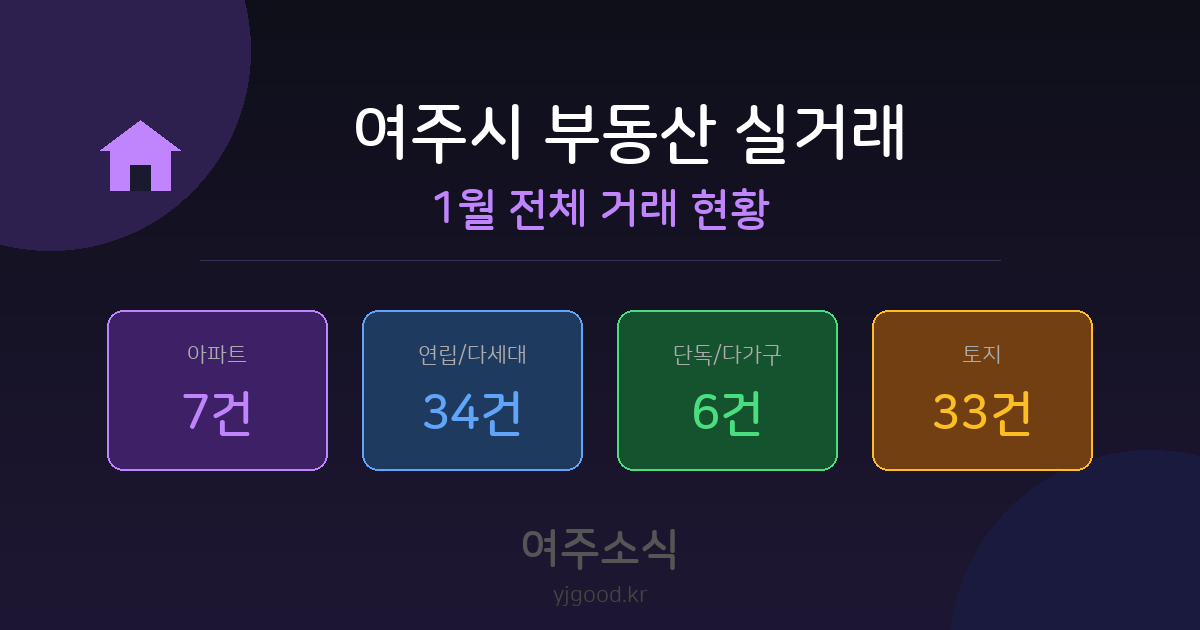
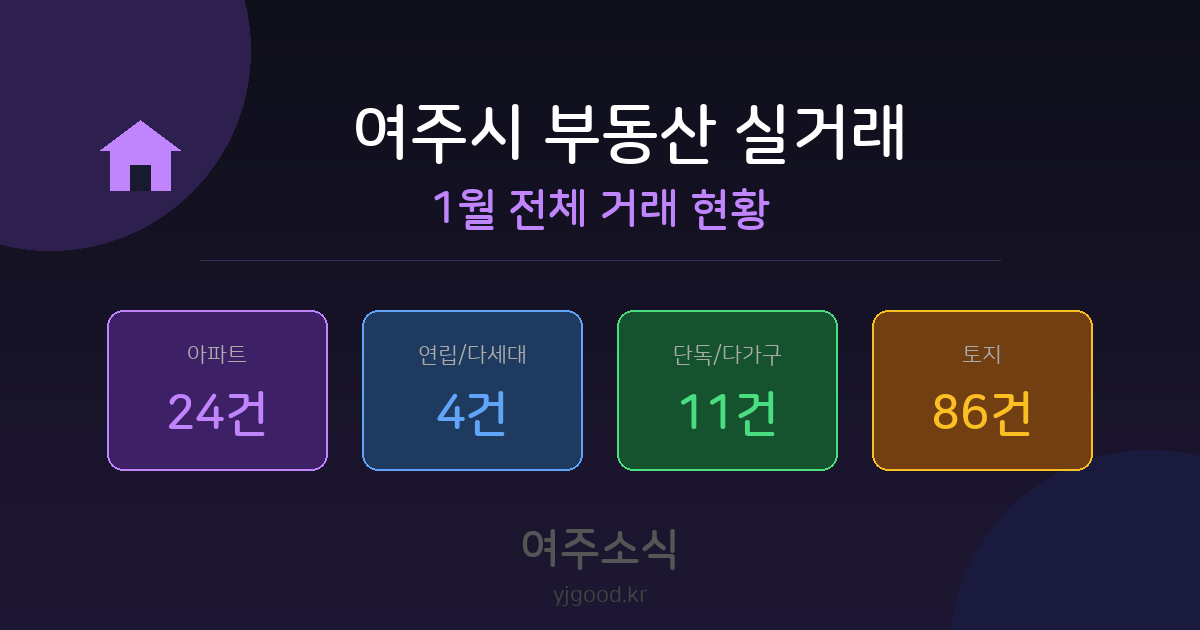
Update real estate data - 2026-01-19

diff --git a/index.html b/index.html
@@ -252,7 +252,7 @@
     </div>
 
     <script>
-        const DATA = {"period": "2026년 1월 셋째주", "updateTime": "2026-01-12 02:24", "apt": {"total": 7, "avg": "1억 6,185", "max": "2억 6,000", "items": [{"name": "e편한세상여주", "dong": "현암동", "area": 84.4212, "floor": 11, "price": 26000, "buildYear": 2014, "dealDate": "1/9", "dealType": "중개거래", "isNew": true}, {"name": "벽산", "dong": "현암동", "area": 37.52, "floor": 6, "price": 8300, "buildYear": 1997, "dealDate": "1/8", "dealType": "중개거래", "isNew": false}, {"name": "홍문현대", "dong": "홍문동", "area": 84.77, "floor": 17, "price": 21500, "buildYear": 1996, "dealDate": "1/8", "dealType": "중개거래", "isNew": false}, {"name": "현진에버빌", "dong": "오학동", "area": 52.06, "floor": 3, "price": 8500, "buildYear": 1998, "dealDate": "1/7", "dealType": "직거래", "isNew": false}, {"name": "두풍리치빌", "dong": "월송동", "area": 84.7637, "floor": 2, "price": 17500, "buildYear": 2003, "dealDate": "1/5", "dealType": "중개거래", "isNew": false}, {"name": "부영사랑으로", "dong": "점봉동", "area": 48.906, "floor": 15, "price": 12800, "buildYear": 2000, "dealDate": "1/5", "dealType": "중개거래", "isNew": false}, {"name": "영진리버빌", "dong": "연양동", "area": 84.9856, "floor": 7, "price": 18700, "buildYear": 2006, "dealDate": "1/1", "dealType": "중개거래", "isNew": false}]}, "villa": {"total": 34, "avg": "1억 7,883", "max": "2억 4,261", "items": [{"name": "마이다스타운하우스", "dong": "가남읍 태평리", "area": 81.9062, "floor": 4, "price": 10000, "buildYear": 2008, "dealDate": "1/7", "dealType": "중개거래", "isNew": false}, {"name": "세종전원빌라", "dong": "점봉동", "area": 69.9, "floor": 4, "price": 6350, "buildYear": 1998, "dealDate": "12/30", "dealType": "중개거래", "isNew": false}, {"name": "장미빌라", "dong": "세종대왕면 번도리", "area": 60.6, "floor": 4, "price": 5000, "buildYear": 1992, "dealDate": "12/29", "dealType": "중개거래", "isNew": false}, {"name": "The이끌림C동", "dong": "현암동", "area": 59.24, "floor": 7, "price": 13400, "buildYear": 2019, "dealDate": "12/26", "dealType": "중개거래", "isNew": false}, {"name": "중앙파크타운(101~105동)", "dong": "천송동", "area": 77.2719, "floor": 3, "price": 15500, "buildYear": 2014, "dealDate": "12/26", "dealType": "중개거래", "isNew": false}, {"name": "세종전원빌라", "dong": "점봉동", "area": 69.9, "floor": 4, "price": 5500, "buildYear": 1998, "dealDate": "12/25", "dealType": "중개거래", "isNew": false}, {"name": "한강주택", "dong": "하동", "area": 60.06, "floor": 1, "price": 6000, "buildYear": 1986, "dealDate": "12/23", "dealType": "직거래", "isNew": false}, {"name": "모란주택", "dong": "창동", "area": 47.52, "floor": 3, "price": 5500, "buildYear": 2007, "dealDate": "12/18", "dealType": "직거래", "isNew": false}, {"name": "수학빌리지", "dong": "대신면 율촌리", "area": 50.22, "floor": 4, "price": 2000, "buildYear": 1992, "dealDate": "12/15", "dealType": "직거래", "isNew": false}, {"name": "개나리주택", "dong": "현암동", "area": 42.84, "floor": 1, "price": 8550, "buildYear": 1987, "dealDate": "12/10", "dealType": "중개거래", "isNew": false}, {"name": "중앙파크타운(110동)", "dong": "천송동", "area": 59.86, "floor": 4, "price": 12500, "buildYear": 2014, "dealDate": "12/8", "dealType": "중개거래", "isNew": false}, {"name": "힐링하우스(3동)", "dong": "점봉동", "area": 56.18, "floor": 3, "price": 12911, "buildYear": 2017, "dealDate": "12/5", "dealType": "중개거래", "isNew": false}, {"name": "두영NEST", "dong": "상동", "area": 55.86, "floor": 2, "price": 21824, "buildYear": 2025, "dealDate": "12/4", "dealType": "직거래", "isNew": false}, {"name": "두영NEST", "dong": "상동", "area": 55.45, "floor": 2, "price": 23504, "buildYear": 2025, "dealDate": "12/4", "dealType": "직거래", "isNew": false}, {"name": "두영NEST", "dong": "상동", "area": 56.28, "floor": 2, "price": 23846, "buildYear": 2025, "dealDate": "12/4", "dealType": "직거래", "isNew": false}, {"name": "두영NEST", "dong": "상동", "area": 55.45, "floor": 2, "price": 23504, "buildYear": 2025, "dealDate": "12/4", "dealType": "직거래", "isNew": false}, {"name": "두영NEST", "dong": "상동", "area": 56.53, "floor": 2, "price": 24024, "buildYear": 2025, "dealDate": "12/4", "dealType": "직거래", "isNew": false}, {"name": "두영NEST", "dong": "상동", "area": 55.86, "floor": 3, "price": 22058, "buildYear": 2025, "dealDate": "12/4", "dealType": "직거래", "isNew": false}, {"name": "두영NEST", "dong": "상동", "area": 55.45, "floor": 3, "price": 23737, "buildYear": 2025, "dealDate": "12/4", "dealType": "직거래", "isNew": false}, {"name": "두영NEST", "dong": "상동", "area": 56.28, "floor": 3, "price": 24082, "buildYear": 2025, "dealDate": "12/4", "dealType": "직거래", "isNew": false}]}, "house": {"total": 6, "avg": "1억 9,760", "max": "3억 8,000", "items": [{"name": "대신면 옥촌리 3**", "dong": "대신면 옥촌리", "area": 0, "floor": 0, "price": 5400, "buildYear": 1999, "dealDate": "1/9", "dealType": "직거래", "isNew": true}, {"name": "세종대왕면 번도리 1**", "dong": "세종대왕면 번도리", "area": 0, "floor": 0, "price": 7000, "buildYear": 1999, "dealDate": "1/7", "dealType": "직거래", "isNew": false}, {"name": "상동 3**", "dong": "상동", "area": 0, "floor": 0, "price": 15000, "buildYear": 1999, "dealDate": "1/7", "dealType": "중개거래", "isNew": false}, {"name": "오학동 7*", "dong": "오학동", "area": 0, "floor": 0, "price": 38000, "buildYear": 2022, "dealDate": "1/5", "dealType": "중개거래", "isNew": false}, {"name": "점동면 흔암리 1**", "dong": "점동면 흔암리", "area": 0, "floor": 0, "price": 35660, "buildYear": 2012, "dealDate": "1/5", "dealType": "중개거래", "isNew": false}, {"name": "북내면 석우리 1**", "dong": "북내면 석우리", "area": 0, "floor": 0, "price": 17500, "buildYear": 2002, "dealDate": "1/5", "dealType": "직거래", "isNew": false}]}, "land": {"total": 33, "avg": "4,162", "max": "2억 4,440", "items": [{"name": "천송동 5*", "dong": "천송동", "area": 165.0, "floor": 0, "price": 5000, "buildYear": 0, "dealDate": "1/9", "dealType": "직거래", "isNew": true}, {"name": "점동면 사곡리 2**", "dong": "점동면 사곡리", "area": 5035.0, "floor": 0, "price": 14000, "buildYear": 0, "dealDate": "1/9", "dealType": "직거래", "isNew": true}, {"name": "오금동 8*", "dong": "오금동", "area": 52.0, "floor": 0, "price": 547, "buildYear": 0, "dealDate": "1/8", "dealType": "직거래", "isNew": false}, {"name": "오금동 7*", "dong": "오금동", "area": 23.0, "floor": 0, "price": 243, "buildYear": 0, "dealDate": "1/8", "dealType": "직거래", "isNew": false}, {"name": "오금동 7*", "dong": "오금동", "area": 20.0, "floor": 0, "price": 210, "buildYear": 0, "dealDate": "1/8", "dealType": "직거래", "isNew": false}, {"name": "대신면 후포리 8**", "dong": "대신면 후포리", "area": 62.0, "floor": 0, "price": 400, "buildYear": 0, "dealDate": "1/7", "dealType": "직거래", "isNew": false}, {"name": "대신면 후포리 8**", "dong": "대신면 후포리", "area": 27.0, "floor": 0, "price": 200, "buildYear": 0, "dealDate": "1/7", "dealType": "직거래", "isNew": false}, {"name": "가남읍 대신리 산9*", "dong": "가남읍 대신리", "area": 6217.0, "floor": 0, "price": 24440, "buildYear": 0, "dealDate": "1/7", "dealType": "직거래", "isNew": false}, {"name": "가남읍 태평리 *", "dong": "가남읍 태평리", "area": 366.0, "floor": 0, "price": 11500, "buildYear": 0, "dealDate": "1/7", "dealType": "직거래", "isNew": false}, {"name": "가남읍 태평리 *", "dong": "가남읍 태평리", "area": 68.0, "floor": 0, "price": 1700, "buildYear": 0, "dealDate": "1/7", "dealType": "직거래", "isNew": false}, {"name": "가남읍 대신리 1**", "dong": "가남읍 대신리", "area": 825.0, "floor": 0, "price": 3525, "buildYear": 0, "dealDate": "1/7", "dealType": "직거래", "isNew": false}, {"name": "가남읍 대신리 6**", "dong": "가남읍 대신리", "area": 1803.0, "floor": 0, "price": 6810, "buildYear": 0, "dealDate": "1/7", "dealType": "직거래", "isNew": false}, {"name": "흥천면 상대리 2**", "dong": "흥천면 상대리", "area": 2080.0, "floor": 0, "price": 13200, "buildYear": 0, "dealDate": "1/7", "dealType": "중개거래", "isNew": false}, {"name": "대신면 후포리 8**", "dong": "대신면 후포리", "area": 27.0, "floor": 0, "price": 200, "buildYear": 0, "dealDate": "1/7", "dealType": "중개거래", "isNew": false}, {"name": "점동면 덕평리 9*", "dong": "점동면 덕평리", "area": 1124.0, "floor": 0, "price": 14000, "buildYear": 0, "dealDate": "1/7", "dealType": "직거래", "isNew": false}, {"name": "대신면 하림리 6**", "dong": "대신면 하림리", "area": 1269.6, "floor": 0, "price": 1500, "buildYear": 0, "dealDate": "1/7", "dealType": "직거래", "isNew": false}, {"name": "대신면 천남리 3**", "dong": "대신면 천남리", "area": 17.0, "floor": 0, "price": 250, "buildYear": 0, "dealDate": "1/6", "dealType": "직거래", "isNew": false}, {"name": "점동면 흔암리 1**", "dong": "점동면 흔암리", "area": 94.41, "floor": 0, "price": 340, "buildYear": 0, "dealDate": "1/5", "dealType": "중개거래", "isNew": false}, {"name": "삼교동 4**", "dong": "삼교동", "area": 165.0, "floor": 0, "price": 300, "buildYear": 0, "dealDate": "1/5", "dealType": "중개거래", "isNew": false}, {"name": "삼교동 4**", "dong": "삼교동", "area": 30.0, "floor": 0, "price": 200, "buildYear": 0, "dealDate": "1/5", "dealType": "중개거래", "isNew": false}]}};
+        const DATA = {"period": "2026년 1월 넷째주", "updateTime": "2026-01-19 02:25", "apt": {"total": 24, "avg": "1억 8,395", "max": "5억", "items": [{"name": "두풍리치빌", "dong": "월송동", "area": 84.7637, "floor": 11, "price": 20000, "buildYear": 2003, "dealDate": "1/16", "dealType": "중개거래", "isNew": true}, {"name": "현진에버빌", "dong": "오학동", "area": 39.945, "floor": 11, "price": 7500, "buildYear": 1998, "dealDate": "1/16", "dealType": "중개거래", "isNew": true}, {"name": "부영사랑으로", "dong": "점봉동", "area": 38.651, "floor": 4, "price": 8100, "buildYear": 2000, "dealDate": "1/14", "dealType": "중개거래", "isNew": false}, {"name": "여주아이파크", "dong": "현암동", "area": 84.9884, "floor": 2, "price": 28000, "buildYear": 2020, "dealDate": "1/14", "dealType": "직거래", "isNew": false}, {"name": "서해스카이팰리스", "dong": "천송동", "area": 84.8526, "floor": 23, "price": 43000, "buildYear": 2024, "dealDate": "1/14", "dealType": "중개거래", "isNew": false}, {"name": "호반리젠시빌", "dong": "교동", "area": 84.8742, "floor": 10, "price": 22700, "buildYear": 2003, "dealDate": "1/13", "dealType": "중개거래", "isNew": false}, {"name": "여주아이파크", "dong": "현암동", "area": 84.9804, "floor": 13, "price": 38000, "buildYear": 2020, "dealDate": "1/13", "dealType": "중개거래", "isNew": false}, {"name": "부영사랑으로", "dong": "점봉동", "area": 38.651, "floor": 6, "price": 8700, "buildYear": 2000, "dealDate": "1/11", "dealType": "중개거래", "isNew": false}, {"name": "세광리치타운(101동-108동)", "dong": "가남읍 심석리", "area": 58.74, "floor": 13, "price": 8200, "buildYear": 1999, "dealDate": "1/11", "dealType": "중개거래", "isNew": false}, {"name": "두풍리치빌", "dong": "월송동", "area": 84.7637, "floor": 2, "price": 19300, "buildYear": 2003, "dealDate": "1/10", "dealType": "중개거래", "isNew": false}, {"name": "여주오드카운티", "dong": "오학동", "area": 59.976, "floor": 5, "price": 20000, "buildYear": 2014, "dealDate": "1/9", "dealType": "중개거래", "isNew": false}, {"name": "e편한세상여주", "dong": "현암동", "area": 84.4212, "floor": 11, "price": 26000, "buildYear": 2014, "dealDate": "1/9", "dealType": "중개거래", "isNew": false}, {"name": "삼진", "dong": "현암동", "area": 57.15, "floor": 1, "price": 7000, "buildYear": 1990, "dealDate": "1/8", "dealType": "직거래", "isNew": false}, {"name": "벽산", "dong": "현암동", "area": 37.52, "floor": 6, "price": 8300, "buildYear": 1997, "dealDate": "1/8", "dealType": "중개거래", "isNew": false}, {"name": "홍문현대", "dong": "홍문동", "area": 84.77, "floor": 17, "price": 21500, "buildYear": 1996, "dealDate": "1/8", "dealType": "중개거래", "isNew": false}, {"name": "벽산", "dong": "현암동", "area": 37.52, "floor": 2, "price": 6000, "buildYear": 1997, "dealDate": "1/7", "dealType": "직거래", "isNew": false}, {"name": "이안여주강변", "dong": "현암동", "area": 84.83, "floor": 5, "price": 24500, "buildYear": 2009, "dealDate": "1/7", "dealType": "중개거래", "isNew": false}, {"name": "현진에버빌", "dong": "오학동", "area": 52.06, "floor": 3, "price": 8500, "buildYear": 1998, "dealDate": "1/7", "dealType": "직거래", "isNew": false}, {"name": "부영사랑으로", "dong": "점봉동", "area": 38.651, "floor": 6, "price": 9000, "buildYear": 2000, "dealDate": "1/6", "dealType": "직거래", "isNew": false}, {"name": "부영사랑으로", "dong": "점봉동", "area": 38.651, "floor": 6, "price": 8200, "buildYear": 2000, "dealDate": "1/5", "dealType": "중개거래", "isNew": false}]}, "villa": {"total": 4, "avg": "1억 525", "max": "1억 3,000", "items": [{"name": "드림캐슬(B동)", "dong": "현암동", "area": 64.81, "floor": 5, "price": 13000, "buildYear": 2017, "dealDate": "1/10", "dealType": "중개거래", "isNew": false}, {"name": "라이프타운", "dong": "현암동", "area": 61.39, "floor": 4, "price": 13000, "buildYear": 2015, "dealDate": "1/9", "dealType": "직거래", "isNew": false}, {"name": "월송주택C동", "dong": "월송동", "area": 44.56, "floor": 1, "price": 6100, "buildYear": 1986, "dealDate": "1/8", "dealType": "중개거래", "isNew": false}, {"name": "마이다스타운하우스", "dong": "가남읍 태평리", "area": 81.9062, "floor": 4, "price": 10000, "buildYear": 2008, "dealDate": "1/7", "dealType": "중개거래", "isNew": false}]}, "house": {"total": 11, "avg": "2억 3,923", "max": "3억 8,000", "items": [{"name": "단현동 6*", "dong": "단현동", "area": 0, "floor": 0, "price": 20000, "buildYear": 1994, "dealDate": "1/14", "dealType": "직거래", "isNew": false}, {"name": "연라동 3**", "dong": "연라동", "area": 0, "floor": 0, "price": 36800, "buildYear": 2026, "dealDate": "1/14", "dealType": "직거래", "isNew": false}, {"name": "점동면 처리 5*", "dong": "점동면 처리", "area": 0, "floor": 0, "price": 15500, "buildYear": 2019, "dealDate": "1/11", "dealType": "중개거래", "isNew": false}, {"name": "대신면 옥촌리 3**", "dong": "대신면 옥촌리", "area": 0, "floor": 0, "price": 5400, "buildYear": 1999, "dealDate": "1/9", "dealType": "직거래", "isNew": false}, {"name": "연라동 3**", "dong": "연라동", "area": 0, "floor": 0, "price": 34800, "buildYear": 2026, "dealDate": "1/7", "dealType": "직거래", "isNew": false}, {"name": "세종대왕면 번도리 1**", "dong": "세종대왕면 번도리", "area": 0, "floor": 0, "price": 7000, "buildYear": 1999, "dealDate": "1/7", "dealType": "직거래", "isNew": false}, {"name": "상동 3**", "dong": "상동", "area": 0, "floor": 0, "price": 15000, "buildYear": 1999, "dealDate": "1/7", "dealType": "중개거래", "isNew": false}, {"name": "오학동 7*", "dong": "오학동", "area": 0, "floor": 0, "price": 37500, "buildYear": 2022, "dealDate": "1/5", "dealType": "중개거래", "isNew": false}, {"name": "오학동 7*", "dong": "오학동", "area": 0, "floor": 0, "price": 38000, "buildYear": 2022, "dealDate": "1/5", "dealType": "중개거래", "isNew": false}, {"name": "점동면 흔암리 1**", "dong": "점동면 흔암리", "area": 0, "floor": 0, "price": 35660, "buildYear": 2012, "dealDate": "1/5", "dealType": "중개거래", "isNew": false}, {"name": "북내면 석우리 1**", "dong": "북내면 석우리", "area": 0, "floor": 0, "price": 17500, "buildYear": 2002, "dealDate": "1/5", "dealType": "직거래", "isNew": false}]}, "land": {"total": 86, "avg": "4,103", "max": "2억 6,000", "items": [{"name": "흥천면 율극리 1**", "dong": "흥천면 율극리", "area": 364.0, "floor": 0, "price": 1100, "buildYear": 0, "dealDate": "1/16", "dealType": "직거래", "isNew": true}, {"name": "흥천면 율극리 1**", "dong": "흥천면 율극리", "area": 128.0, "floor": 0, "price": 440, "buildYear": 0, "dealDate": "1/16", "dealType": "직거래", "isNew": true}, {"name": "흥천면 율극리 1**", "dong": "흥천면 율극리", "area": 50.0, "floor": 0, "price": 170, "buildYear": 0, "dealDate": "1/16", "dealType": "직거래", "isNew": true}, {"name": "흥천면 귀백리 3**", "dong": "흥천면 귀백리", "area": 127.2, "floor": 0, "price": 1562, "buildYear": 0, "dealDate": "1/16", "dealType": "직거래", "isNew": true}, {"name": "세종대왕면 구양리 1**", "dong": "세종대왕면 구양리", "area": 460.0, "floor": 0, "price": 1500, "buildYear": 0, "dealDate": "1/15", "dealType": "직거래", "isNew": false}, {"name": "점동면 삼합리 5**", "dong": "점동면 삼합리", "area": 192.0, "floor": 0, "price": 4000, "buildYear": 0, "dealDate": "1/15", "dealType": "중개거래", "isNew": false}, {"name": "가남읍 신해리 1**", "dong": "가남읍 신해리", "area": 349.0, "floor": 0, "price": 2000, "buildYear": 0, "dealDate": "1/15", "dealType": "직거래", "isNew": false}, {"name": "대신면 송촌리 4**", "dong": "대신면 송촌리", "area": 678.0, "floor": 0, "price": 4000, "buildYear": 0, "dealDate": "1/14", "dealType": "직거래", "isNew": false}, {"name": "대신면 송촌리 4**", "dong": "대신면 송촌리", "area": 659.0, "floor": 0, "price": 4000, "buildYear": 0, "dealDate": "1/14", "dealType": "직거래", "isNew": false}, {"name": "대신면 장풍리 산1*", "dong": "대신면 장풍리", "area": 6843.0, "floor": 0, "price": 10555, "buildYear": 0, "dealDate": "1/14", "dealType": "중개거래", "isNew": false}, {"name": "대신면 장풍리 6**", "dong": "대신면 장풍리", "area": 1359.0, "floor": 0, "price": 4709, "buildYear": 0, "dealDate": "1/14", "dealType": "중개거래", "isNew": false}, {"name": "대신면 장풍리 6**", "dong": "대신면 장풍리", "area": 1765.0, "floor": 0, "price": 6116, "buildYear": 0, "dealDate": "1/14", "dealType": "중개거래", "isNew": false}, {"name": "대신면 장풍리 6**", "dong": "대신면 장풍리", "area": 274.0, "floor": 0, "price": 3715, "buildYear": 0, "dealDate": "1/14", "dealType": "중개거래", "isNew": false}, {"name": "대신면 장풍리 6**", "dong": "대신면 장풍리", "area": 823.0, "floor": 0, "price": 2852, "buildYear": 0, "dealDate": "1/14", "dealType": "중개거래", "isNew": false}, {"name": "대신면 장풍리 6**", "dong": "대신면 장풍리", "area": 774.0, "floor": 0, "price": 2682, "buildYear": 0, "dealDate": "1/14", "dealType": "중개거래", "isNew": false}, {"name": "대신면 장풍리 6**", "dong": "대신면 장풍리", "area": 1765.0, "floor": 0, "price": 6116, "buildYear": 0, "dealDate": "1/14", "dealType": "중개거래", "isNew": false}, {"name": "대신면 장풍리 6**", "dong": "대신면 장풍리", "area": 218.0, "floor": 0, "price": 755, "buildYear": 0, "dealDate": "1/14", "dealType": "중개거래", "isNew": false}, {"name": "가남읍 송림리 4*", "dong": "가남읍 송림리", "area": 492.0, "floor": 0, "price": 2000, "buildYear": 0, "dealDate": "1/14", "dealType": "직거래", "isNew": false}, {"name": "현암동 5**", "dong": "현암동", "area": 11.0, "floor": 0, "price": 1000, "buildYear": 0, "dealDate": "1/14", "dealType": "중개거래", "isNew": false}, {"name": "현암동 5**", "dong": "현암동", "area": 12.0, "floor": 0, "price": 1000, "buildYear": 0, "dealDate": "1/14", "dealType": "중개거래", "isNew": false}]}};
         
         function formatPrice(amount) {
             if (amount >= 10000) {
